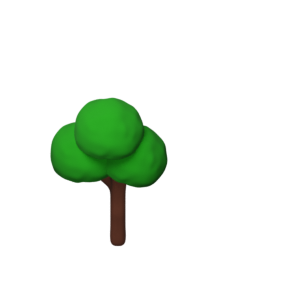
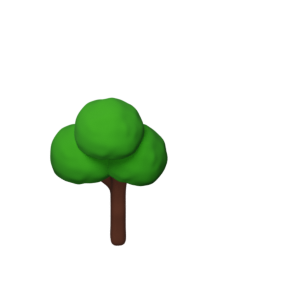
feat: add second variant to game

diff --git a/packages/trashy_road/lib/src/game/entities/obstacle/obstacle.dart b/packages/trashy_road/lib/src/game/entities/obstacle/obstacle.dart
@@ -32,13 +32,22 @@ class Obstacle extends PositionedEntity with Untraversable, ZIndex {
     zIndex = position.y.floor();
   }
 
-  // An Obstacle that is a tree.
+  // An Obstacle that is a tree with a single large ball of leaves.
   //
   // The tree takes up 1x1 tile space.
-  Obstacle._tree({required Vector2 position})
+  Obstacle._tree1({required Vector2 position})
       : this._(
           position: position,
-          children: [_TreeSpriteGroup()],
+          children: [_Tree1SpriteGroup()],
+        );
+
+  // An Obstacle that is a tree with three balls as the leaves.
+  //
+  // The tree takes up 1x1 tile space.
+  Obstacle._tree2({required Vector2 position})
+      : this._(
+          position: position,
+          children: [_Tree2SpriteGroup()],
         );
 
   // An Obstacle that is a fire hydrant.
@@ -64,8 +73,10 @@ class Obstacle extends PositionedEntity with Untraversable, ZIndex {
     final position = Vector2(tiledObject.x, tiledObject.y);
 
     switch (type) {
-      case 'tree':
-        return Obstacle._tree(position: position);
+      case 'tree_1':
+        return Obstacle._tree1(position: position);
+      case 'tree_2':
+        return Obstacle._tree2(position: position);
       case 'fire_hydrant':
         return Obstacle._fireHydrant(position: position);
       case 'bush':
@@ -76,8 +87,8 @@ class Obstacle extends PositionedEntity with Untraversable, ZIndex {
   }
 }
 
-class _TreeSpriteGroup extends PositionComponent {
-  _TreeSpriteGroup()
+class _Tree1SpriteGroup extends PositionComponent {
+  _Tree1SpriteGroup()
       : super(
           // The `size`, `position` and `scale` have been eye-balled to fit with
           // the tile size.
@@ -92,6 +103,27 @@ class _TreeSpriteGroup extends PositionComponent {
             GameSpriteComponent.fromPath(
               anchor: Anchor.bottomLeft,
               spritePath: Assets.images.tree1.path,
+            ),
+          ],
+        );
+}
+
+class _Tree2SpriteGroup extends PositionComponent {
+  _Tree2SpriteGroup()
+      : super(
+          // The `size`, `position` and `scale` have been eye-balled to fit with
+          // the tile size.
+          size: Vector2.all(0.8)..toGameSize(),
+          position: Vector2(-0.1, 0.5)..toGameSize(),
+          scale: Vector2.all(0.8),
+          children: [
+            GameSpriteComponent.fromPath(
+              anchor: Anchor.bottomLeft,
+              spritePath: Assets.images.tree2Shadow.path,
+            ),
+            GameSpriteComponent.fromPath(
+              anchor: Anchor.bottomLeft,
+              spritePath: Assets.images.tree2.path,
             ),
           ],
         );

diff --git a/packages/trashy_road/assets/tiles/Tiles.tsx b/packages/trashy_road/assets/tiles/Tiles.tsx
@@ -26,12 +26,15 @@
   <image width="128" height="64" source="../images/grass-flowers.png"/>
  </tile>
  <tile id="9">
-  <image width="300" height="300" source="../images/tree.png"/>
+  <image width="300" height="300" source="../images/tree_1.png"/>
  </tile>
  <tile id="10">
   <image width="128" height="128" source="../images/fire_hydrant.png"/>
  </tile>
  <tile id="11">
   <image width="128" height="128" source="../images/bush.png"/>
+ </tile>
+ <tile id="12">
+  <image width="300" height="300" source="../images/tree_2.png"/>
  </tile>
 </tileset>
